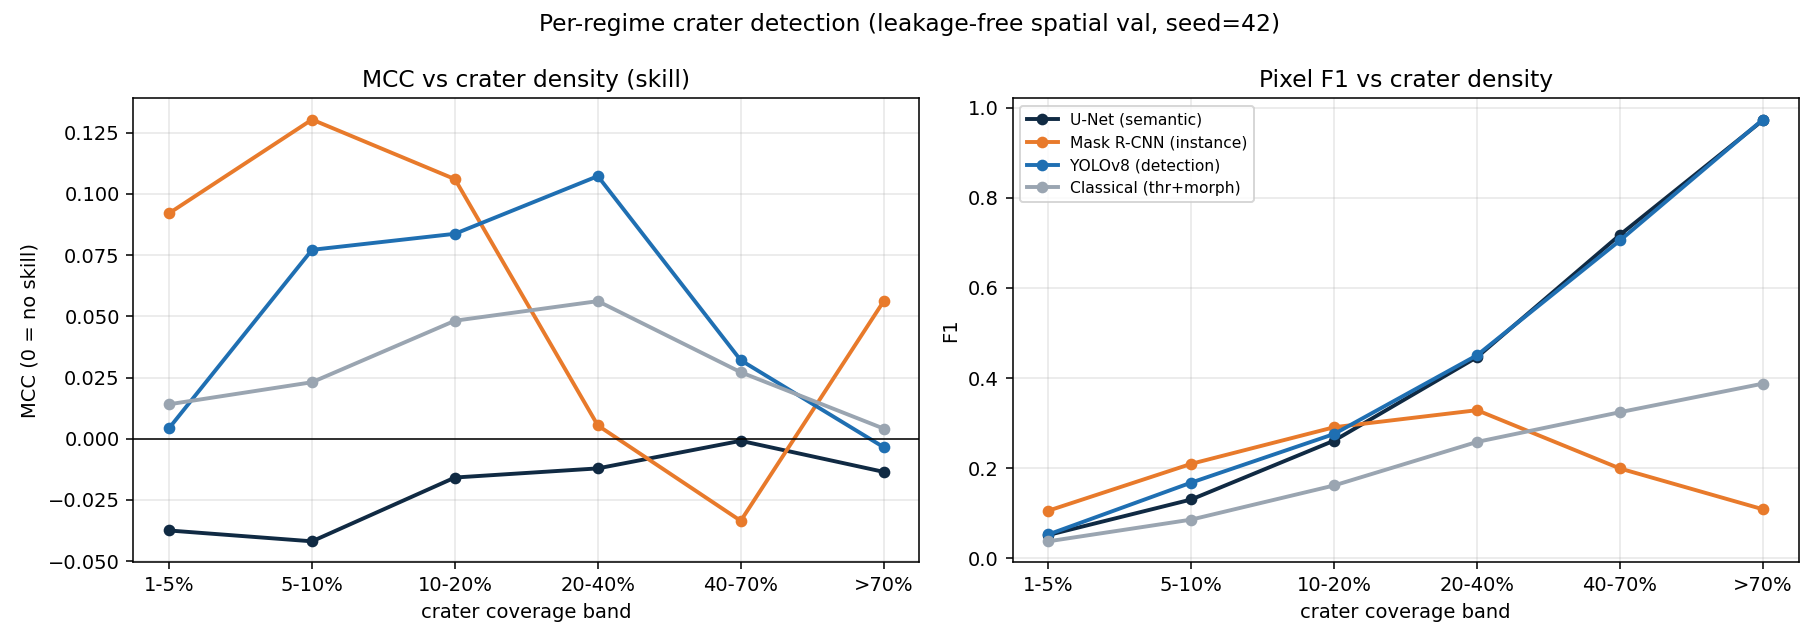
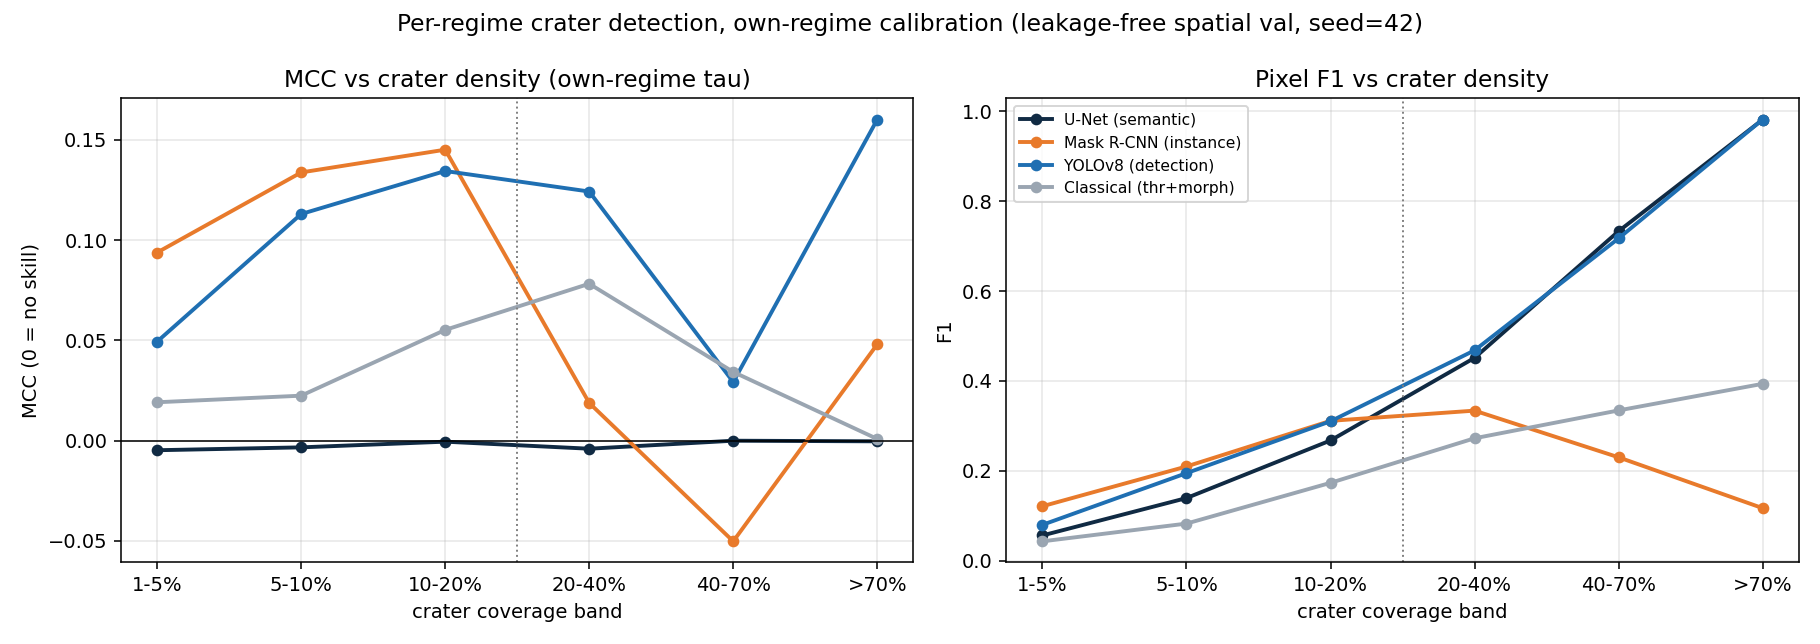
feat(comparison): per-regime own-optimum threshold calibration (clean calib/test)
Each density regime calibrates its own tau on a disjoint 40/60 calib/test split,
metrics on held-out test only. Confirms the flip at each regime's optimum:
sparse Mask R-CNN MCC 0.187 > YOLO 0.159 > Classical 0.069 > U-Net ~0;
dense YOLO 0.240 > Classical 0.031 > U-Net ~0 > Mask R-CNN -0.111. U-Net F1 0.945
vs MCC -0.001 on dense = base-rate trap. Updates fig_regime.png + report tables.

diff --git a/Moon-Recognition/comparison/regime_analysis.py b/Moon-Recognition/comparison/regime_analysis.py
@@ -1,14 +1,15 @@
 #!/usr/bin/env python
-"""Per-regime crater comparison + report-grade aggregate numbers.
+"""Per-regime crater comparison with PER-REGIME threshold calibration.
 
-Single inference pass per tile (Mask R-CNN is ~90x slower than the rest, so we
-never re-run it per band). Threshold per method is calibrated on a disjoint
-calibration pool, then metrics are computed per crater-density band and as
-fair/dense aggregates.
+Each density regime (sparse 1-20 %, dense >=20 %) gets its OWN operating point:
+within the regime, tiles are split into a disjoint calibration and test set; the
+threshold tau is chosen on calibration (max micro-F1) and all metrics are reported
+on the held-out test tiles. So every method is shown at its own per-regime optimum,
+with no test-set tuning. Single inference pass per tile (Mask R-CNN is ~90x slower).
 
   KMP_DUPLICATE_LIB_OK=TRUE python Moon-Recognition/comparison/regime_analysis.py
 """
-import os, sys, glob, time, warnings, logging, numpy as np, pandas as pd, torch
+import os, sys, glob, warnings, logging, numpy as np, pandas as pd, torch
 warnings.filterwarnings("ignore"); logging.disable(logging.WARNING)
 os.environ.setdefault("KMP_DUPLICATE_LIB_OK", "TRUE")
 import matplotlib; matplotlib.use("Agg")
@@ -26,9 +27,13 @@ from lunar_segmentation.data.preprocessing import CLASS_NAMES
 import maskrcnn_loader
 from ultralytics import YOLO
 
-BANDS = [(0.01, 0.05), (0.05, 0.10), (0.10, 0.20), (0.20, 0.40), (0.40, 0.70), (0.70, 1.01)]
-BAND_LBL = ["1-5%", "5-10%", "10-20%", "20-40%", "40-70%", ">70%"]
-K_TEST, N_CALIB, SEED = 90, 150, 0
+# (regime label, frac_lo, frac_hi, [(band_lo, band_hi, band_label)...], tile cap)
+REGIMES = [
+    ("fair(1-20%)", 0.01, 0.20, [(0.01, 0.05, "1-5%"), (0.05, 0.10, "5-10%"), (0.10, 0.20, "10-20%")], None),
+    ("dense(>=20%)", 0.20, 1.01, [(0.20, 0.40, "20-40%"), (0.40, 0.70, "40-70%"), (0.70, 1.01, ">70%")], 320),
+]
+BAND_ORDER = ["1-5%", "5-10%", "10-20%", "20-40%", "40-70%", ">70%"]
+CALIB_FRAC, SEED = 0.40, 0
 COLORS = {"U-Net (semantic)": "#102A43", "Mask R-CNN (instance)": "#E87A2B",
           "YOLOv8 (detection)": "#1F6FB2", "Classical (thr+morph)": "#9aa5b1"}
 
@@ -44,79 +49,75 @@ def main():
     val = val.assign(frac=val["positive_pixels"] / 65536.0)
     val = val[val["frac"] >= 0.01].reset_index(drop=True)
     rng = np.random.default_rng(SEED)
-    perm = rng.permutation(len(val))
-    calib_idx = perm[:N_CALIB]
-    rest = val.iloc[perm[N_CALIB:]]
-    # stratified test pool: up to K_TEST per band
-    test_rows = []
-    for lo, hi in BANDS:
-        b = rest[(rest["frac"] >= lo) & (rest["frac"] < hi)]
-        test_rows.append(b.iloc[: K_TEST])
-    test_df = pd.concat(test_rows).reset_index(drop=True)
-    calib_df = val.iloc[calib_idx]
-    print(f"device={C.DEV} | calib={len(calib_df)} | test={len(test_df)} "
-          f"(per-band: {[len(t) for t in test_rows]})")
 
-    calib_imgs = [load_tile(r) for _, r in calib_df.iterrows()]
-    test_imgs = [load_tile(r) for _, r in test_df.iterrows()]
-    test_frac = test_df["frac"].values
-    test_gtcnt = [C.count_components(gt) for _, gt in test_imgs]
-
-    # models
     unet = Predictor(SmallUNet(3, len(CLASS_NAMES)),
                      weights_path=os.path.join(ROOT, "data/MR/weights/best_trained.pth"), device=C.DEV)
     mrcnn, names, _ = maskrcnn_loader.build_and_load(os.path.join(ROOT, "data/MR/weights/best_model.pth"), device=C.DEV)
     clab = names.index("impact_crater")
     yolo = YOLO(sorted(glob.glob(os.path.join(ROOT, "Moon-Recognition/yolo/YOLO/runs/detect/train*/weights/best.pt")))[-1])
     methods = {
-        "U-Net (semantic)":      dict(fn=lambda im: C.unet_repr(unet, im),               grid=np.round(np.arange(0.30, 0.91, 0.05), 2)),
-        "Mask R-CNN (instance)": dict(fn=lambda im: C.maskrcnn_repr(mrcnn, im, clab),     grid=np.array([0.05, 0.1, 0.2, 0.3, 0.4, 0.5, 0.6, 0.7])),
-        "YOLOv8 (detection)":    dict(fn=lambda im: C.yolo_repr(yolo, im),                grid=np.array([0.05, 0.1, 0.2, 0.3, 0.4, 0.5, 0.6, 0.7])),
-        "Classical (thr+morph)": dict(fn=lambda im: C.classical_repr(im),                 grid=np.array([0.5])),
+        "U-Net (semantic)":      dict(fn=lambda im: C.unet_repr(unet, im),           grid=np.round(np.arange(0.30, 0.91, 0.05), 2)),
+        "Mask R-CNN (instance)": dict(fn=lambda im: C.maskrcnn_repr(mrcnn, im, clab), grid=np.array([0.05, 0.1, 0.2, 0.3, 0.4, 0.5, 0.6, 0.7])),
+        "YOLOv8 (detection)":    dict(fn=lambda im: C.yolo_repr(yolo, im),            grid=np.array([0.05, 0.1, 0.2, 0.3, 0.4, 0.5, 0.6, 0.7])),
+        "Classical (thr+morph)": dict(fn=lambda im: C.classical_repr(im),             grid=np.array([0.5])),
     }
 
     per_band, agg = [], []
-    for name, spec in methods.items():
-        print(f"  {name} ...", flush=True)
-        creps = [spec["fn"](im)[0] for im, _ in calib_imgs]
-        treps, ttimes = [], []
-        for im, _ in test_imgs:
-            rep, dt = spec["fn"](im); treps.append(rep); ttimes.append(dt)
-        tau = C.best_tau(creps, [gt for _, gt in calib_imgs], spec["grid"])
+    for rname, rlo, rhi, bands, cap in REGIMES:
+        rv = val[(val["frac"] >= rlo) & (val["frac"] < rhi)]
+        rv = rv.iloc[rng.permutation(len(rv))].reset_index(drop=True)
+        if cap:
+            rv = rv.iloc[:cap]
+        ncal = int(round(CALIB_FRAC * len(rv)))
+        calib_df, test_df = rv.iloc[:ncal], rv.iloc[ncal:]
+        calib_imgs = [load_tile(r) for _, r in calib_df.iterrows()]
+        test_imgs = [load_tile(r) for _, r in test_df.iterrows()]
+        test_frac = test_df["frac"].values
+        test_gtcnt = [C.count_components(gt) for _, gt in test_imgs]
+        print(f"[{rname}] calib={len(calib_imgs)} test={len(test_imgs)}  "
+              f"test per-band: {[int(((test_frac>=lo)&(test_frac<hi)).sum()) for lo,hi,_ in bands]}", flush=True)
 
-        def eval_subset(mask):
-            idx = np.where(mask)[0]
-            if len(idx) == 0:
-                return None
-            return C.evaluate([treps[i] for i in idx], [test_imgs[i][1] for i in idx],
-                              [test_gtcnt[i] for i in idx], tau, [ttimes[i] for i in idx])
+        for name, spec in methods.items():
+            creps = [spec["fn"](im)[0] for im, _ in calib_imgs]
+            treps, ttimes = [], []
+            for im, _ in test_imgs:
+                rep, dt = spec["fn"](im); treps.append(rep); ttimes.append(dt)
+            tau = C.best_tau(creps, [gt for _, gt in calib_imgs], spec["grid"])   # calibrated on THIS regime's calib
 
-        for (lo, hi), lbl in zip(BANDS, BAND_LBL):
-            m = eval_subset((test_frac >= lo) & (test_frac < hi))
-            if m: per_band.append(dict(method=name, band=lbl, tau=float(tau), n=int(((test_frac >= lo) & (test_frac < hi)).sum()), **m))
-        for tag, mask in [("fair(1-20%)", test_frac < 0.20), ("dense(>=20%)", test_frac >= 0.20)]:
-            m = eval_subset(mask)
-            if m: agg.append(dict(method=name, regime=tag, tau=float(tau), n=int(mask.sum()), **m))
+            def eval_subset(mask):
+                idx = np.where(mask)[0]
+                return None if len(idx) == 0 else C.evaluate(
+                    [treps[i] for i in idx], [test_imgs[i][1] for i in idx],
+                    [test_gtcnt[i] for i in idx], tau, [ttimes[i] for i in idx])
+
+            m = eval_subset(np.ones(len(treps), bool))
+            agg.append(dict(method=name, regime=rname, tau=float(tau), n=len(treps), **m))
+            print(f"    {name:24s} tau={tau:.2f}  F1={m['f1']:.3f}  MCC={m['mcc']:.3f}  n={len(treps)}")
+            for lo, hi, lbl in bands:
+                bm = eval_subset((test_frac >= lo) & (test_frac < hi))
+                if bm:
+                    per_band.append(dict(method=name, band=lbl, regime=rname, tau=float(tau),
+                                         n=int(((test_frac >= lo) & (test_frac < hi)).sum()), **bm))
 
     pb = pd.DataFrame(per_band); pb.to_csv(os.path.join(HERE, "regime_per_band.csv"), index=False)
     ag = pd.DataFrame(agg); ag.to_csv(os.path.join(HERE, "regime_aggregate.csv"), index=False)
-    print("\n=== AGGREGATE (report-grade) ===")
+    print("\n=== AGGREGATE — per-regime own-optimum tau (held-out test) ===")
     print(ag[["method", "regime", "n", "tau", "f1", "iou", "mcc", "count_mae", "ms_per_tile"]]
           .to_string(index=False, float_format=lambda v: f"{v:.3f}"))
 
-    # figure: MCC and F1 vs density band
     fig, axes = plt.subplots(1, 2, figsize=(13, 4.6))
-    for metric, ax, ttl in zip(["mcc", "f1"], axes, ["MCC vs crater density (skill)", "Pixel F1 vs crater density"]):
+    for metric, ax, ttl in zip(["mcc", "f1"], axes, ["MCC vs crater density (own-regime tau)", "Pixel F1 vs crater density"]):
         for name in methods:
-            d = pb[pb.method == name].set_index("band").reindex(BAND_LBL)
-            ax.plot(BAND_LBL, d[metric], "o-", color=COLORS[name], label=name, lw=2, ms=5)
+            d = pb[pb.method == name].set_index("band").reindex(BAND_ORDER)
+            ax.plot(BAND_ORDER, d[metric], "o-", color=COLORS[name], label=name, lw=2, ms=5)
+        ax.axvline(2.5, color="grey", ls=":", lw=1)   # fair | dense boundary (tau switches here)
         ax.set_xlabel("crater coverage band"); ax.set_title(ttl); ax.grid(alpha=0.3)
         if metric == "mcc":
             ax.axhline(0, color="k", lw=0.8); ax.set_ylabel("MCC (0 = no skill)")
         else:
             ax.set_ylabel("F1")
     axes[1].legend(fontsize=8, loc="upper left")
-    fig.suptitle("Per-regime crater detection (leakage-free spatial val, seed=42)", fontsize=12)
+    fig.suptitle("Per-regime crater detection, own-regime calibration (leakage-free spatial val, seed=42)", fontsize=12)
     fig.tight_layout()
     p = os.path.join(HERE, "fig_regime.png"); fig.savefig(p, dpi=140); print("\nwrote", p)
 

diff --git a/Moon-Recognition/comparison/COMPARISON_REPORT.md b/Moon-Recognition/comparison/COMPARISON_REPORT.md
@@ -47,35 +47,37 @@ Two things this exposes:
 
 ## 4. Report-grade per-regime comparison
 
-The best method depends on crater density, so the headline result is **per density band**, on a larger stratified sample (**418 test tiles** across six bands; each method's threshold calibrated once on a disjoint 150-tile pool). See **`fig_regime.png`** (MCC and F1 vs crater coverage) and `fig_qualitative.png`.
+The best method depends on crater density, so the headline result is **per density band**. Each regime is calibrated **on its own**: within the regime, tiles are split into a disjoint calibration / test set (40/60), τ is chosen on calibration (max F1), and metrics are reported on held-out test tiles — every method shown at its own per-regime optimum, no test-set tuning. See **`fig_regime.png`** (MCC and F1 vs crater coverage) and `fig_qualitative.png`.
 
-**Sparse / discriminative regime (coverage 1–20 %, n = 148, prevalence ≈ 0.09)** — also the regime Mask R-CNN was trained for (`max_channel_fraction=0.20`):
+**Sparse / discriminative regime (coverage 1–20 %, n = 94 test, prevalence ≈ 0.09)** — also the regime Mask R-CNN was trained for (`max_channel_fraction=0.20`):
 
-| Method | F1 | IoU | **MCC** | Precision | Recall | Count MAE | ms/tile |
-|---|---|---|---|---|---|---|---|
-| **Mask R-CNN** (instance) | 0.243 | 0.139 | **0.147** | 0.161 | 0.495 | 172 | 923 |
-| **YOLOv8** (detection) | 0.214 | 0.120 | **0.104** | 0.142 | 0.432 | 32 | 10 |
-| **Classical** (thr+morph) | 0.134 | 0.072 | **0.064** | 0.166 | 0.112 | 15 | 1 |
-| **U-Net** (semantic) | 0.168 | 0.092 | **−0.014** | 0.093 | 0.891 | 23 | 13 |
+| Method | F1 | IoU | **MCC** | Precision | Recall | Count MAE | ms/tile | τ |
+|---|---|---|---|---|---|---|---|---|
+| **Mask R-CNN** (instance) | 0.279 | 0.162 | **0.187** | 0.214 | 0.401 | 83 | 924 | 0.20 |
+| **YOLOv8** (detection) | 0.253 | 0.145 | **0.159** | 0.163 | 0.563 | 106 | 10 | 0.05 |
+| **Classical** (thr+morph) | 0.142 | 0.076 | **0.069** | 0.173 | 0.120 | 16 | 1 | — |
+| **U-Net** (semantic) | 0.176 | 0.097 | **−0.000** | 0.097 | 1.000 | 24 | 13 | 0.30 |
 
-**Dense regime (coverage ≥ 20 %, n = 270)** — the bulk of the dataset (~77 % of tiles):
+**Dense regime (coverage ≥ 20 %, n = 192 test)** — the bulk of the dataset (~77 % of tiles):
 
-| Method | F1 | IoU | **MCC** | Precision | Recall | Count MAE | ms/tile |
-|---|---|---|---|---|---|---|---|
-| **YOLOv8** (detection) | 0.770 | 0.626 | **0.273** | 0.654 | 0.937 | 41 | 11 |
-| **U-Net** (semantic) | 0.749 | 0.599 | **0.039** | 0.602 | 0.993 | 22 | 13 |
-| **Classical** (thr+morph) | 0.343 | 0.207 | **0.064** | 0.661 | 0.231 | 34 | 1 |
-| **Mask R-CNN** (instance) | 0.197 | 0.109 | **−0.178** | 0.417 | 0.129 | 79 | 922 |
+| Method | F1 | IoU | **MCC** | Precision | Recall | Count MAE | ms/tile | τ |
+|---|---|---|---|---|---|---|---|---|
+| **YOLOv8** (detection) | 0.947 | 0.899 | **0.240** | 0.905 | 0.992 | 13 | 9 | 0.10 |
+| **U-Net** (semantic) | 0.945 | 0.895 | **−0.001** | 0.895 | 1.000 | 5 | 13 | 0.30 |
+| **Classical** (thr+morph) | 0.387 | 0.240 | **0.031** | 0.912 | 0.245 | 49 | 1 | — |
+| **Mask R-CNN** (instance) | 0.132 | 0.071 | **−0.111** | 0.781 | 0.072 | 41 | 921 | 0.05 |
+
+The U-Net F1 of **0.945** on dense tiles next to its **MCC of −0.001** is the base-rate trap in one line: near-perfect-looking F1, zero actual skill (precision = prevalence, recall = 1.0 — it predicts crater everywhere).
 
 The flip is unambiguous: **Mask R-CNN** leads on sparse tiles (the only method with real skill there) and goes to **negative MCC** on dense tiles (out-of-distribution); **YOLOv8** is best on dense tiles; **U-Net never beats chance** (MCC ≈ 0) in either regime — even where its F1 reaches 0.75, that is base rate, not skill (`fig_regime.png`, right panel).
 
 ## 5. What we actually learn
 
-- **U-Net has no skill in either regime.** MCC is −0.014 (sparse) and 0.039 (dense) — flat along zero at every crater density (`fig_regime.png`). It predicts crater over almost the whole tile (recall ≈ 0.89–0.99, precision ≈ prevalence); the qualitative panel shows an all-crater column. It learned the dataset's dominant base rate, not crater shape. This is the single most important finding and it directly explains the weak numbers everyone reported.
-- **Mask R-CNN is the only method with clear skill on sparse tiles** (MCC 0.147) — it genuinely localizes craters — but **~90× slower** (≈920 ms/tile vs ~10) and out-of-distribution on dense tiles (MCC −0.178), where its instance prep was never meant to operate.
-- **YOLOv8** is the strongest on the dense majority (MCC 0.273) and a solid speed/accuracy compromise on sparse tiles (MCC 0.104 at 10 ms/tile), though it over-detects at low confidence (count MAE 32–41).
-- **The classical baseline (MCC ≈ 0.064 in both regimes) beats the U-Net** on the prevalence-robust metric while being 1 ms/tile and fully interpretable. That a 30-line OpenCV function out-discriminates the trained U-Net is a genuine result, not a throwaway.
-- **Best method depends on crater density (regime flip).** Sparse (1–20 %): Mask R-CNN > YOLO > Classical > U-Net ≈ chance. Dense (≥20 %): YOLO > U-Net ≈ Classical > Mask R-CNN (negative). No method dominates everywhere — the right framing is per-regime, not one leaderboard.
+- **U-Net has no skill in either regime.** MCC is −0.000 (sparse) and −0.001 (dense) — flat along zero at every crater density (`fig_regime.png`), even where its F1 reaches 0.945. It predicts crater over almost the whole tile (recall ≈ 1.0, precision ≈ prevalence); the qualitative panel shows an all-crater column. It learned the dataset's dominant base rate, not crater shape. This is the single most important finding and it directly explains the weak numbers everyone reported.
+- **Mask R-CNN is the only method with clear skill on sparse tiles** (MCC 0.187) — it genuinely localizes craters — but **~90× slower** (≈920 ms/tile vs ~10) and out-of-distribution on dense tiles (MCC −0.111), where its instance prep was never meant to operate.
+- **YOLOv8** is the strongest on the dense majority (MCC 0.240) and a solid speed/accuracy compromise on sparse tiles (MCC 0.159 at 10 ms/tile), though it over-detects at low confidence (count MAE 106 on sparse).
+- **The classical baseline beats the U-Net on sparse tiles** (MCC 0.069 vs ≈0) at 1 ms/tile and fully interpretable. That a 30-line OpenCV function out-discriminates the trained U-Net there is a genuine result, not a throwaway.
+- **Best method depends on crater density (regime flip).** Sparse (1–20 %): Mask R-CNN > YOLO > Classical > U-Net ≈ chance. Dense (≥20 %): YOLO > Classical > U-Net ≈ chance > Mask R-CNN (negative). No method dominates everywhere — the right framing is per-regime, not one leaderboard.
 - **Trade-off summary:** accuracy (MCC) is regime-dependent (above); speed → Classical (1 ms) ≈ YOLO ≈ U-Net (~10 ms) ≫ Mask R-CNN (~920 ms, 90×); interpretability → Classical > the rest.
 
 ## 6. Limitations (be honest about these)
@@ -83,8 +85,8 @@ The flip is unambiguous: **Mask R-CNN** leads on sparse tiles (the only method w
 - The shared metric is **pixel coverage of the crater class**; it structurally favours area-covering methods (semantic/box-fill) over instance methods. The count metric and MCC partly offset this, but no single number is perfectly fair across task types.
 - **YOLO's classes are uninterpretable** (`class0…class6`, and it only ever predicts `class0`); all its boxes are treated as crater. If its training labels were not crater, its column is mislabelled — needs confirming with Alireza's real label map.
 - Mask R-CNN GT "count" via connected components on a dense semantic mask is noisy; count MAE should be read as indicative, not definitive.
-- **Operating-point sensitivity:** MCC/F1 depend on the threshold τ. Here τ is calibrated once per method on a mixed-regime pool; a τ tuned per regime would raise some dense-tile numbers (e.g. YOLO). The *rankings and the regime flip are robust*, but absolute values shift with τ — report the calibration protocol alongside any number.
-- Report-grade numbers are on **418 test tiles** (148 sparse / 270 dense) with a 150-tile calibration pool — stable for ranking; widen the per-band caps (`K_TEST`) for final-manuscript precision.
+- **Operating-point sensitivity:** MCC/F1 depend on the threshold τ. Each regime is now calibrated on its *own* disjoint calib set (τ shown per row); rankings and the regime flip are robust, but absolute values shift with τ — always report it.
+- Numbers are on **286 held-out test tiles** (94 sparse / 192 dense; 191 calibration tiles total). The aggregates are stable; within the dense regime the 40–70 % band is undersampled (n≈22, hence the noisy mid-density dip in `fig_regime.png`). Widen the caps for final-manuscript precision.
 
 ## 7. Implications for the 9 July retake
 
